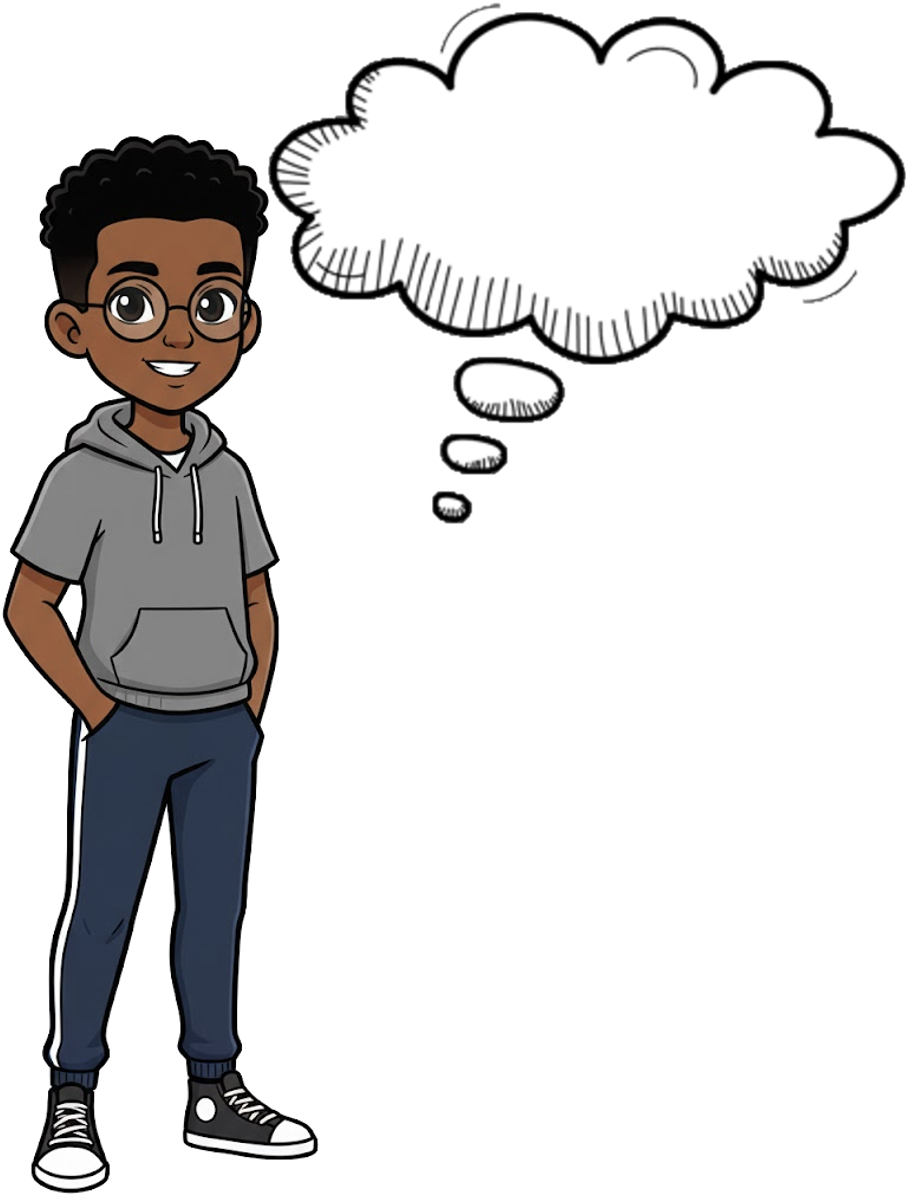
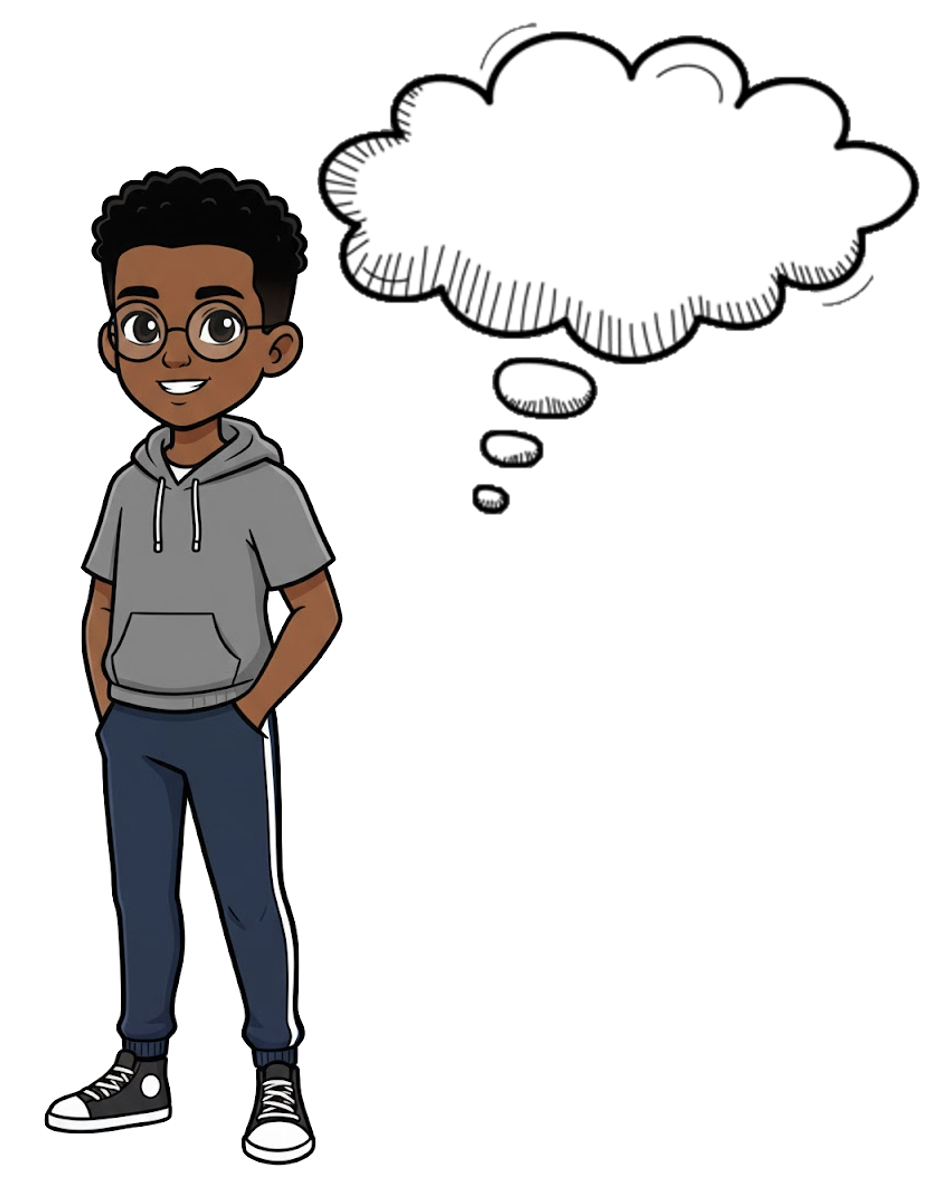
new

Changed region(s): [[0.0, 0.0, 1.0, 0.9933]]

diff --git a/index.html b/index.html
@@ -109,7 +109,7 @@ food:{stimuli:[
     { label: "Inviting friends 👩", need: "Jack feels lonely, so he throws a party and sends invitations to his friends. <br> His apartment can comfortably host <b>4</b> people.", base_action: "friend showed up at Jack's apartment", verb: "has", past: "had", unit: "friends showed up at Jack's apartment", emoji: "👩", null:"Suppose that no one showed up at Jack's party."},
     { label: "Time with acquaintance 🧑🤝🧑", need: "Mei feels lonely and wants to hang out with acquaintances. <br> She met a few people through a meet-and-greet and would like to spend <b>4</b> hours with them again.", base_action: "hour with acquintances", verb: "spends", past: "spent", unit: "hours with acquaintances", emoji: "🧑🤝🧑", null:"Suppose that Mei did not get to spend any time with acquintances."},
     { label: "Meeting new people 🧑🏼", need: "Akira is new in town and wants to expand her social circle. <br> She is at a meet-and-greet with the goal of meeting <b>4</b> new people, whom she wants to introduce herself to and talk with. ", base_action: "new person", unit: "new people", verb: "meets",  past: "met", emoji: "🧑🏼", null:"Suppose that Akira did not get to meet and talk with any new people."},
-    { label: "Time alone 👤", need: "Olivia had a long, tiring week and wants to spend <b>4</b> hours of her Saturday alone.", base_action: "hour alone", unit: "hours alone", verb: "spends", past: "spent", emoji: "👤",  null:"Suppose that Olivia did not get to spend any time alone"},
+    { label: "Time alone 👤", need: "Olivia had a long, tiring week and wants to spend <b>4</b> hours of her Saturday alone.", base_action: "hour alone", unit: "hours alone", verb: "spends", past: "spent", emoji: "👤",  null:"Suppose that Olivia did not get to spend any time alone."},
     { label: "Facetiming 📞", need: "Grace feels lonely and wants to FaceTime her friends for <b>4</b> hours.", base_action: "hour", unit: "hours", verb: "facetimes", past: "FaceTimed her friends for", emoji: "📞",  null:"Suppose that Grace did not get to FaceTime her friends."},]}
 };
 
@@ -245,8 +245,8 @@ function attentionCheck(direction) {
 }
 
 /* ================= START ================= */
-var duration = '5 minutes';
-    var amount = '$1.25';
+var duration = '6 minutes';
+var amount = '$1.5';
 var consent = {
     type: jsPsychHtmlButtonResponse,
     stimulus: '<p><b>Consent Form</b></p> <div style="text-align:left; background-color:lightblue; padding:2vw; max-width:80vw; max-height:60vh; overflow-y:auto;">' +
